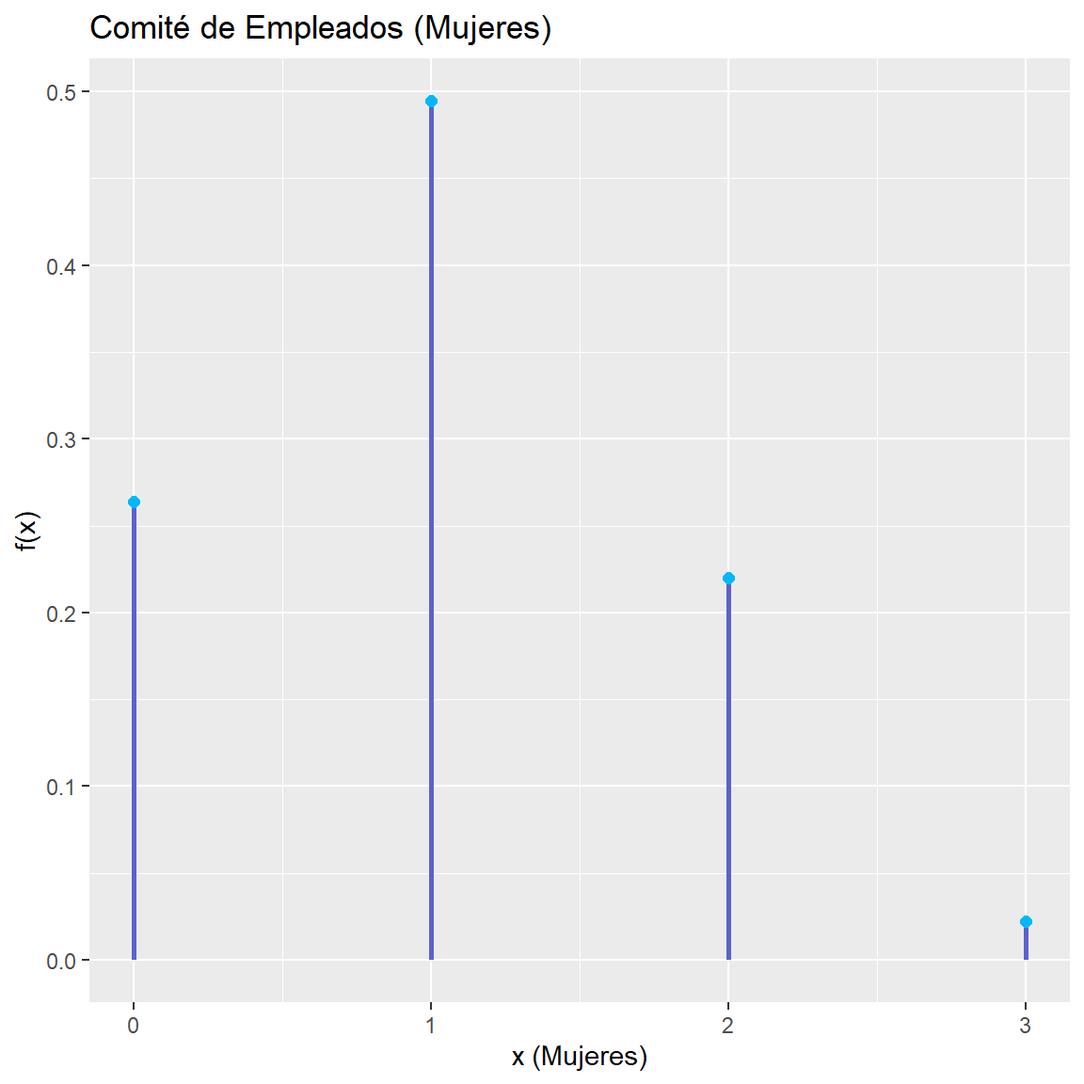
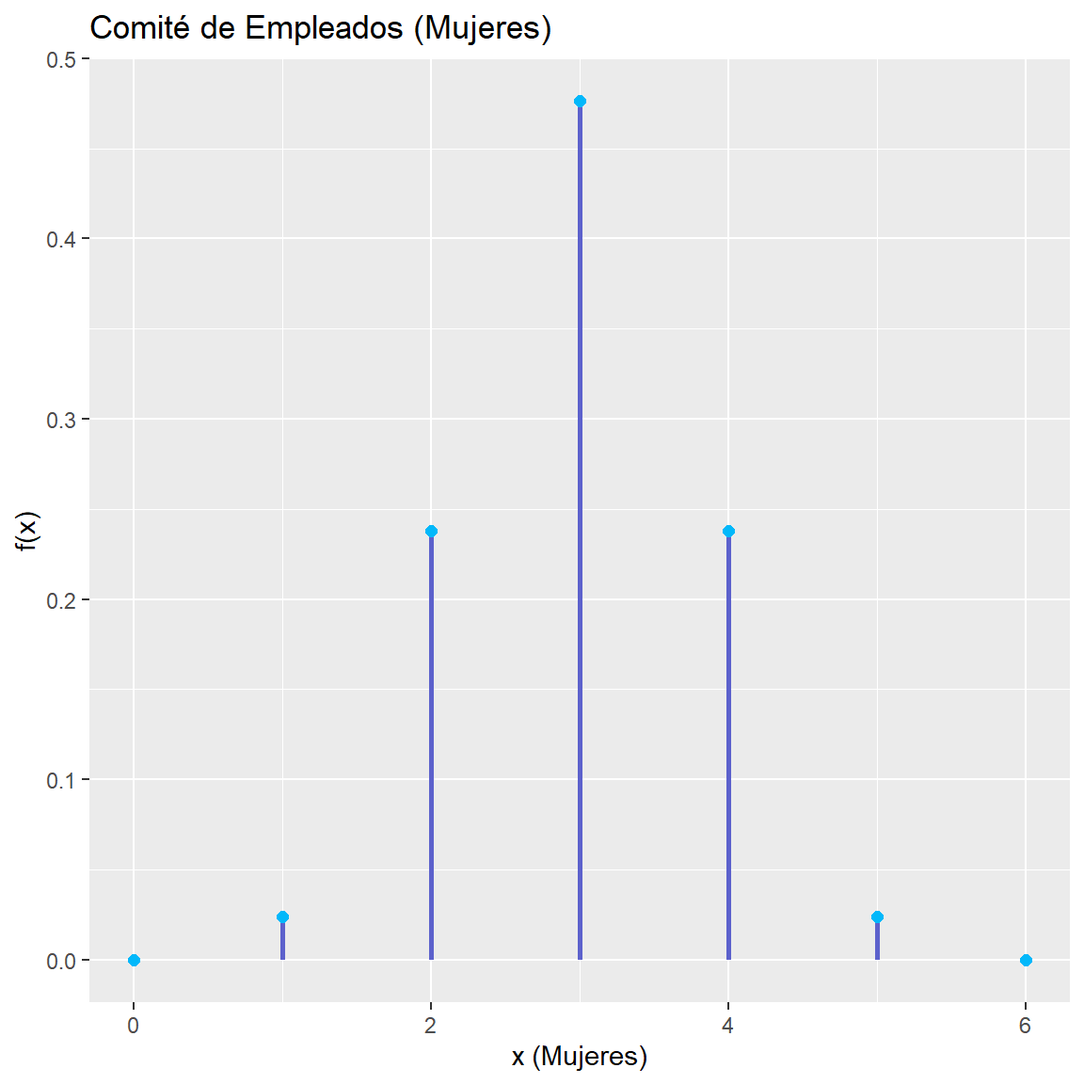
cambios7

diff --git a/index.html b/index.html
@@ -160,7 +160,7 @@ window.Quarto = {
       <div>
       <div class="quarto-title-meta-heading">Fecha de publicación</div>
       <div class="quarto-title-meta-contents">
-        <p class="date">11 de mayo de 2026</p>
+        <p class="date">13 de mayo de 2026</p>
       </div>
     </div>
     
@@ -3308,16 +3308,19 @@ window.Quarto = {
 <div class="cell" data-layout-align="center">
 <details class="code-fold">
 <summary>Ver código</summary>
-<div class="sourceCode cell-code" id="cb132"><pre class="sourceCode r code-with-copy"><code class="sourceCode r"><span id="cb132-1"><a href="#cb132-1" aria-hidden="true" tabindex="-1"></a>N <span class="ot">&lt;-</span> <span class="dv">15</span></span>
-<span id="cb132-2"><a href="#cb132-2" aria-hidden="true" tabindex="-1"></a>K <span class="ot">&lt;-</span> <span class="dv">5</span> <span class="co"># Mujeres (éxito buscado)</span></span>
-<span id="cb132-3"><a href="#cb132-3" aria-hidden="true" tabindex="-1"></a>n_muestra <span class="ot">&lt;-</span> <span class="dv">3</span></span>
-<span id="cb132-4"><a href="#cb132-4" aria-hidden="true" tabindex="-1"></a>x <span class="ot">&lt;-</span> <span class="dv">0</span><span class="sc">:</span><span class="dv">3</span></span>
-<span id="cb132-5"><a href="#cb132-5" aria-hidden="true" tabindex="-1"></a>fx <span class="ot">&lt;-</span> <span class="fu">round</span>(<span class="fu">dhyper</span>(x, <span class="at">m =</span> K, <span class="at">n =</span> N <span class="sc">-</span> K, <span class="at">k =</span> n_muestra), <span class="dv">4</span>)</span>
-<span id="cb132-6"><a href="#cb132-6" aria-hidden="true" tabindex="-1"></a>Fx <span class="ot">&lt;-</span> <span class="fu">round</span>(<span class="fu">cumsum</span>(fx), <span class="dv">4</span>)</span>
-<span id="cb132-7"><a href="#cb132-7" aria-hidden="true" tabindex="-1"></a>df_comite <span class="ot">=</span> <span class="fu">data.frame</span>(x, fx, Fx)</span>
-<span id="cb132-8"><a href="#cb132-8" aria-hidden="true" tabindex="-1"></a><span class="fu">kable</span>(df_comite, <span class="at">align =</span> <span class="st">"c"</span>) <span class="sc">%&gt;%</span> </span>
-<span id="cb132-9"><a href="#cb132-9" aria-hidden="true" tabindex="-1"></a>  <span class="fu">kable_styling</span>(<span class="st">"striped"</span>, <span class="at">full_width =</span> F) <span class="sc">%&gt;%</span></span>
-<span id="cb132-10"><a href="#cb132-10" aria-hidden="true" tabindex="-1"></a>  <span class="fu">row_spec</span>(<span class="dv">0</span><span class="sc">:</span><span class="dv">4</span>, <span class="at">bold =</span> T, <span class="at">color =</span> <span class="st">"#f7f2f2"</span>, <span class="at">background =</span> <span class="st">"#5c61cc"</span>)</span></code><button title="Copiar al portapapeles" class="code-copy-button"><i class="bi"></i></button></pre></div>
+<div class="sourceCode cell-code" id="cb132"><pre class="sourceCode r code-with-copy"><code class="sourceCode r"><span id="cb132-1"><a href="#cb132-1" aria-hidden="true" tabindex="-1"></a>N <span class="ot">&lt;-</span> <span class="dv">10</span></span>
+<span id="cb132-2"><a href="#cb132-2" aria-hidden="true" tabindex="-1"></a>K <span class="ot">&lt;-</span> <span class="dv">6</span></span>
+<span id="cb132-3"><a href="#cb132-3" aria-hidden="true" tabindex="-1"></a>n <span class="ot">&lt;-</span> <span class="dv">5</span></span>
+<span id="cb132-4"><a href="#cb132-4" aria-hidden="true" tabindex="-1"></a>x <span class="ot">&lt;-</span> <span class="dv">0</span><span class="sc">:</span>K</span>
+<span id="cb132-5"><a href="#cb132-5" aria-hidden="true" tabindex="-1"></a><span class="co"># dhyper(x, m, n_rest, k) -&gt; m=éxitos (buen estado), n_rest=fracasos, k=muestra</span></span>
+<span id="cb132-6"><a href="#cb132-6" aria-hidden="true" tabindex="-1"></a>fx <span class="ot">&lt;-</span> <span class="fu">round</span>(<span class="fu">dhyper</span>(x, <span class="at">m =</span> K, <span class="at">n =</span> N <span class="sc">-</span> K, <span class="at">k =</span> n), <span class="dv">4</span>)</span>
+<span id="cb132-7"><a href="#cb132-7" aria-hidden="true" tabindex="-1"></a>Fx <span class="ot">&lt;-</span> <span class="fu">round</span>(<span class="fu">cumsum</span>(fx), <span class="dv">4</span>)</span>
+<span id="cb132-8"><a href="#cb132-8" aria-hidden="true" tabindex="-1"></a>df <span class="ot">=</span> <span class="fu">data.frame</span>(x, fx, Fx)</span>
+<span id="cb132-9"><a href="#cb132-9" aria-hidden="true" tabindex="-1"></a>Form.Basic <span class="ot">&lt;-</span> <span class="fu">c</span>(<span class="st">"striped"</span>, <span class="st">"bordered"</span>, <span class="st">"hover"</span>, <span class="st">"condensed"</span>, <span class="st">"responsive"</span>)</span>
+<span id="cb132-10"><a href="#cb132-10" aria-hidden="true" tabindex="-1"></a><span class="fu">kable</span>(df, <span class="at">align =</span> <span class="st">"c"</span>) <span class="sc">%&gt;%</span> </span>
+<span id="cb132-11"><a href="#cb132-11" aria-hidden="true" tabindex="-1"></a>  <span class="fu">kable_styling</span>(<span class="st">"striped"</span>, <span class="at">full_width =</span> F) <span class="sc">%&gt;%</span></span>
+<span id="cb132-12"><a href="#cb132-12" aria-hidden="true" tabindex="-1"></a>  <span class="fu">column_spec</span>(<span class="dv">1</span>, <span class="at">bold =</span> T) <span class="sc">%&gt;%</span></span>
+<span id="cb132-13"><a href="#cb132-13" aria-hidden="true" tabindex="-1"></a>  <span class="fu">row_spec</span>(<span class="dv">0</span><span class="sc">:</span><span class="dv">7</span>, <span class="at">bold =</span> T, <span class="at">color =</span> <span class="st">"#f7f2f2"</span>, <span class="at">background =</span> <span class="st">"#5c61cc"</span>)</span></code><button title="Copiar al portapapeles" class="code-copy-button"><i class="bi"></i></button></pre></div>
 </details>
 <div class="cell-output-display">
 <table class="table table-striped caption-top table-sm small" data-quarto-postprocess="true">
@@ -3330,23 +3333,38 @@ window.Quarto = {
 </thead>
 <tbody>
 <tr class="odd">
-<td style="text-align: center; font-weight: bold; color: rgba(247, 242, 242, 255) !important; background-color: rgba(92, 97, 204, 255) !important;">0</td>
-<td style="text-align: center; font-weight: bold; color: rgba(247, 242, 242, 255) !important; background-color: rgba(92, 97, 204, 255) !important;">0.2637</td>
-<td style="text-align: center; font-weight: bold; color: rgba(247, 242, 242, 255) !important; background-color: rgba(92, 97, 204, 255) !important;">0.2637</td>
+<td style="text-align: center; font-weight: bold; font-weight: bold; color: rgba(247, 242, 242, 255) !important; background-color: rgba(92, 97, 204, 255) !important;">0</td>
+<td style="text-align: center; font-weight: bold; color: rgba(247, 242, 242, 255) !important; background-color: rgba(92, 97, 204, 255) !important;">0.0000</td>
+<td style="text-align: center; font-weight: bold; color: rgba(247, 242, 242, 255) !important; background-color: rgba(92, 97, 204, 255) !important;">0.0000</td>
 </tr>
 <tr class="even">
-<td style="text-align: center; font-weight: bold; color: rgba(247, 242, 242, 255) !important; background-color: rgba(92, 97, 204, 255) !important;">1</td>
-<td style="text-align: center; font-weight: bold; color: rgba(247, 242, 242, 255) !important; background-color: rgba(92, 97, 204, 255) !important;">0.4945</td>
-<td style="text-align: center; font-weight: bold; color: rgba(247, 242, 242, 255) !important; background-color: rgba(92, 97, 204, 255) !important;">0.7582</td>
+<td style="text-align: center; font-weight: bold; font-weight: bold; color: rgba(247, 242, 242, 255) !important; background-color: rgba(92, 97, 204, 255) !important;">1</td>
+<td style="text-align: center; font-weight: bold; color: rgba(247, 242, 242, 255) !important; background-color: rgba(92, 97, 204, 255) !important;">0.0238</td>
+<td style="text-align: center; font-weight: bold; color: rgba(247, 242, 242, 255) !important; background-color: rgba(92, 97, 204, 255) !important;">0.0238</td>
 </tr>
 <tr class="odd">
-<td style="text-align: center; font-weight: bold; color: rgba(247, 242, 242, 255) !important; background-color: rgba(92, 97, 204, 255) !important;">2</td>
-<td style="text-align: center; font-weight: bold; color: rgba(247, 242, 242, 255) !important; background-color: rgba(92, 97, 204, 255) !important;">0.2198</td>
-<td style="text-align: center; font-weight: bold; color: rgba(247, 242, 242, 255) !important; background-color: rgba(92, 97, 204, 255) !important;">0.9780</td>
+<td style="text-align: center; font-weight: bold; font-weight: bold; color: rgba(247, 242, 242, 255) !important; background-color: rgba(92, 97, 204, 255) !important;">2</td>
+<td style="text-align: center; font-weight: bold; color: rgba(247, 242, 242, 255) !important; background-color: rgba(92, 97, 204, 255) !important;">0.2381</td>
+<td style="text-align: center; font-weight: bold; color: rgba(247, 242, 242, 255) !important; background-color: rgba(92, 97, 204, 255) !important;">0.2619</td>
 </tr>
 <tr class="even">
-<td style="text-align: center; font-weight: bold; color: rgba(247, 242, 242, 255) !important; background-color: rgba(92, 97, 204, 255) !important;">3</td>
-<td style="text-align: center; font-weight: bold; color: rgba(247, 242, 242, 255) !important; background-color: rgba(92, 97, 204, 255) !important;">0.0220</td>
+<td style="text-align: center; font-weight: bold; font-weight: bold; color: rgba(247, 242, 242, 255) !important; background-color: rgba(92, 97, 204, 255) !important;">3</td>
+<td style="text-align: center; font-weight: bold; color: rgba(247, 242, 242, 255) !important; background-color: rgba(92, 97, 204, 255) !important;">0.4762</td>
+<td style="text-align: center; font-weight: bold; color: rgba(247, 242, 242, 255) !important; background-color: rgba(92, 97, 204, 255) !important;">0.7381</td>
+</tr>
+<tr class="odd">
+<td style="text-align: center; font-weight: bold; font-weight: bold; color: rgba(247, 242, 242, 255) !important; background-color: rgba(92, 97, 204, 255) !important;">4</td>
+<td style="text-align: center; font-weight: bold; color: rgba(247, 242, 242, 255) !important; background-color: rgba(92, 97, 204, 255) !important;">0.2381</td>
+<td style="text-align: center; font-weight: bold; color: rgba(247, 242, 242, 255) !important; background-color: rgba(92, 97, 204, 255) !important;">0.9762</td>
+</tr>
+<tr class="even">
+<td style="text-align: center; font-weight: bold; font-weight: bold; color: rgba(247, 242, 242, 255) !important; background-color: rgba(92, 97, 204, 255) !important;">5</td>
+<td style="text-align: center; font-weight: bold; color: rgba(247, 242, 242, 255) !important; background-color: rgba(92, 97, 204, 255) !important;">0.0238</td>
+<td style="text-align: center; font-weight: bold; color: rgba(247, 242, 242, 255) !important; background-color: rgba(92, 97, 204, 255) !important;">1.0000</td>
+</tr>
+<tr class="odd">
+<td style="text-align: center; font-weight: bold; font-weight: bold; color: rgba(247, 242, 242, 255) !important; background-color: rgba(92, 97, 204, 255) !important;">6</td>
+<td style="text-align: center; font-weight: bold; color: rgba(247, 242, 242, 255) !important; background-color: rgba(92, 97, 204, 255) !important;">0.0000</td>
 <td style="text-align: center; font-weight: bold; color: rgba(247, 242, 242, 255) !important; background-color: rgba(92, 97, 204, 255) !important;">1.0000</td>
 </tr>
 </tbody>
@@ -3417,14 +3435,24 @@ window.Quarto = {
 <div class="cell" data-layout-align="center">
 <details class="code-fold">
 <summary>Ver código</summary>
-<div class="sourceCode cell-code" id="cb137"><pre class="sourceCode r code-with-copy"><code class="sourceCode r"><span id="cb137-1"><a href="#cb137-1" aria-hidden="true" tabindex="-1"></a><span class="fu">ggplot</span>(df_comite, <span class="fu">aes</span>(<span class="at">x =</span> x, <span class="at">y =</span> fx, <span class="at">fill=</span><span class="fu">factor</span>(<span class="fu">ifelse</span>(x<span class="sc">==</span><span class="dv">2</span>,<span class="st">"Valor"</span>,<span class="st">"Resto"</span>)))) <span class="sc">+</span></span>
-<span id="cb137-2"><a href="#cb137-2" aria-hidden="true" tabindex="-1"></a><span class="fu">geom_bar</span>(<span class="at">stat =</span> <span class="st">"identity"</span>, <span class="at">width =</span> <span class="fl">0.4</span>) <span class="sc">+</span> </span>
-<span id="cb137-3"><a href="#cb137-3" aria-hidden="true" tabindex="-1"></a><span class="fu">scale_fill_manual</span>(<span class="at">name =</span> <span class="st">""</span>, <span class="at">values=</span><span class="fu">c</span>(<span class="st">"#fab27a"</span>,<span class="st">"#5c61cc"</span>)) <span class="sc">+</span> <span class="fu">theme_bw</span>()</span></code><button title="Copiar al portapapeles" class="code-copy-button"><i class="bi"></i></button></pre></div>
+<div class="sourceCode cell-code" id="cb137"><pre class="sourceCode r code-with-copy"><code class="sourceCode r"><span id="cb137-1"><a href="#cb137-1" aria-hidden="true" tabindex="-1"></a>x <span class="ot">&lt;-</span> <span class="dv">0</span><span class="sc">:</span><span class="dv">3</span></span>
+<span id="cb137-2"><a href="#cb137-2" aria-hidden="true" tabindex="-1"></a>fx <span class="ot">&lt;-</span> <span class="fu">dhyper</span>(x, <span class="at">m =</span> <span class="dv">5</span>, <span class="at">n =</span> <span class="dv">10</span>, <span class="at">k =</span> <span class="dv">3</span>)</span>
+<span id="cb137-3"><a href="#cb137-3" aria-hidden="true" tabindex="-1"></a></span>
+<span id="cb137-4"><a href="#cb137-4" aria-hidden="true" tabindex="-1"></a>df_comite <span class="ot">&lt;-</span> <span class="fu">data.frame</span>(x, fx)</span></code><button title="Copiar al portapapeles" class="code-copy-button"><i class="bi"></i></button></pre></div>
+</details>
+</div>
+<div class="cell" data-layout-align="center">
+<details class="code-fold">
+<summary>Ver código</summary>
+<div class="sourceCode cell-code" id="cb138"><pre class="sourceCode r code-with-copy"><code class="sourceCode r"><span id="cb138-1"><a href="#cb138-1" aria-hidden="true" tabindex="-1"></a><span class="fu">ggplot</span>(df_comite, <span class="fu">aes</span>(<span class="at">x =</span> x, <span class="at">y =</span> fx, <span class="at">fill =</span> <span class="fu">factor</span>(<span class="fu">ifelse</span>(x <span class="sc">==</span> <span class="dv">2</span>, <span class="st">"Valor"</span>, <span class="st">"Resto"</span>)))) <span class="sc">+</span></span>
+<span id="cb138-2"><a href="#cb138-2" aria-hidden="true" tabindex="-1"></a><span class="fu">geom_bar</span>(<span class="at">stat =</span> <span class="st">"identity"</span>, <span class="at">width =</span> <span class="fl">0.4</span>) <span class="sc">+</span></span>
+<span id="cb138-3"><a href="#cb138-3" aria-hidden="true" tabindex="-1"></a><span class="fu">scale_fill_manual</span>(<span class="at">name =</span> <span class="st">""</span>, <span class="at">values =</span> <span class="fu">c</span>(<span class="st">"#fab27a"</span>, <span class="st">"#5c61cc"</span>)) <span class="sc">+</span></span>
+<span id="cb138-4"><a href="#cb138-4" aria-hidden="true" tabindex="-1"></a><span class="fu">theme_bw</span>()</span></code><button title="Copiar al portapapeles" class="code-copy-button"><i class="bi"></i></button></pre></div>
 </details>
 <div class="cell-output-display">
 <div class="quarto-figure quarto-figure-center">
 <figure class="figure">
-<p><img src="index_files/figure-html/unnamed-chunk-87-1.png" class="img-fluid quarto-figure quarto-figure-center figure-img" style="width:70.0%"></p>
+<p><img src="index_files/figure-html/unnamed-chunk-88-1.png" class="img-fluid quarto-figure quarto-figure-center figure-img" style="width:70.0%"></p>
 </figure>
 </div>
 </div>
@@ -3452,16 +3480,16 @@ window.Quarto = {
 <div class="cell" data-layout-align="center">
 <details class="code-fold">
 <summary>Ver código</summary>
-<div class="sourceCode cell-code" id="cb138"><pre class="sourceCode r code-with-copy"><code class="sourceCode r"><span id="cb138-1"><a href="#cb138-1" aria-hidden="true" tabindex="-1"></a>N <span class="ot">&lt;-</span> <span class="dv">12</span></span>
-<span id="cb138-2"><a href="#cb138-2" aria-hidden="true" tabindex="-1"></a>K <span class="ot">&lt;-</span> <span class="dv">3</span></span>
-<span id="cb138-3"><a href="#cb138-3" aria-hidden="true" tabindex="-1"></a>n_muestra <span class="ot">&lt;-</span> <span class="dv">5</span></span>
-<span id="cb138-4"><a href="#cb138-4" aria-hidden="true" tabindex="-1"></a>x <span class="ot">&lt;-</span> <span class="dv">0</span><span class="sc">:</span>K</span>
-<span id="cb138-5"><a href="#cb138-5" aria-hidden="true" tabindex="-1"></a>fx <span class="ot">&lt;-</span> <span class="fu">round</span>(<span class="fu">dhyper</span>(x, <span class="at">m =</span> K, <span class="at">n =</span> N <span class="sc">-</span> K, <span class="at">k =</span> n_muestra), <span class="dv">4</span>)</span>
-<span id="cb138-6"><a href="#cb138-6" aria-hidden="true" tabindex="-1"></a>Fx <span class="ot">&lt;-</span> <span class="fu">round</span>(<span class="fu">cumsum</span>(fx), <span class="dv">4</span>)</span>
-<span id="cb138-7"><a href="#cb138-7" aria-hidden="true" tabindex="-1"></a>df_frascos <span class="ot">=</span> <span class="fu">data.frame</span>(x, fx, Fx)</span>
-<span id="cb138-8"><a href="#cb138-8" aria-hidden="true" tabindex="-1"></a><span class="fu">kable</span>(df_frascos, <span class="at">align =</span> <span class="st">"c"</span>) <span class="sc">%&gt;%</span> </span>
-<span id="cb138-9"><a href="#cb138-9" aria-hidden="true" tabindex="-1"></a>  <span class="fu">kable_styling</span>(<span class="st">"striped"</span>, <span class="at">full_width =</span> F) <span class="sc">%&gt;%</span></span>
-<span id="cb138-10"><a href="#cb138-10" aria-hidden="true" tabindex="-1"></a>  <span class="fu">row_spec</span>(<span class="dv">0</span><span class="sc">:</span><span class="dv">4</span>, <span class="at">bold =</span> T, <span class="at">color =</span> <span class="st">"#f7f2f2"</span>, <span class="at">background =</span> <span class="st">"#5c61cc"</span>)</span></code><button title="Copiar al portapapeles" class="code-copy-button"><i class="bi"></i></button></pre></div>
+<div class="sourceCode cell-code" id="cb139"><pre class="sourceCode r code-with-copy"><code class="sourceCode r"><span id="cb139-1"><a href="#cb139-1" aria-hidden="true" tabindex="-1"></a>lambda <span class="ot">&lt;-</span> <span class="dv">3</span></span>
+<span id="cb139-2"><a href="#cb139-2" aria-hidden="true" tabindex="-1"></a>x <span class="ot">&lt;-</span> <span class="dv">0</span><span class="sc">:</span><span class="dv">10</span> <span class="co"># Tomamos hasta 10 para visualizar la tendencia</span></span>
+<span id="cb139-3"><a href="#cb139-3" aria-hidden="true" tabindex="-1"></a>fx <span class="ot">&lt;-</span> <span class="fu">round</span>(<span class="fu">dpois</span>(x, lambda), <span class="dv">4</span>)</span>
+<span id="cb139-4"><a href="#cb139-4" aria-hidden="true" tabindex="-1"></a>Fx <span class="ot">&lt;-</span> <span class="fu">round</span>(<span class="fu">ppois</span>(x, lambda), <span class="dv">4</span>)</span>
+<span id="cb139-5"><a href="#cb139-5" aria-hidden="true" tabindex="-1"></a>df <span class="ot">=</span> <span class="fu">data.frame</span>(x, fx, Fx)</span>
+<span id="cb139-6"><a href="#cb139-6" aria-hidden="true" tabindex="-1"></a>Form.Basic <span class="ot">&lt;-</span> <span class="fu">c</span>(<span class="st">"striped"</span>, <span class="st">"bordered"</span>, <span class="st">"hover"</span>, <span class="st">"condensed"</span>, <span class="st">"responsive"</span>)</span>
+<span id="cb139-7"><a href="#cb139-7" aria-hidden="true" tabindex="-1"></a><span class="fu">kable</span>(df, <span class="at">align =</span> <span class="st">"c"</span>) <span class="sc">%&gt;%</span> </span>
+<span id="cb139-8"><a href="#cb139-8" aria-hidden="true" tabindex="-1"></a>  <span class="fu">kable_styling</span>(<span class="st">"striped"</span>, <span class="at">full_width =</span> F) <span class="sc">%&gt;%</span></span>
+<span id="cb139-9"><a href="#cb139-9" aria-hidden="true" tabindex="-1"></a>  <span class="fu">column_spec</span>(<span class="dv">1</span>, <span class="at">bold =</span> T) <span class="sc">%&gt;%</span></span>
+<span id="cb139-10"><a href="#cb139-10" aria-hidden="true" tabindex="-1"></a>  <span class="fu">row_spec</span>(<span class="dv">0</span><span class="sc">:</span><span class="dv">11</span>, <span class="at">bold =</span> T, <span class="at">color =</span> <span class="st">"#f7f2f2"</span>, <span class="at">background =</span> <span class="st">"#5c61cc"</span>)</span></code><button title="Copiar al portapapeles" class="code-copy-button"><i class="bi"></i></button></pre></div>
 </details>
 <div class="cell-output-display">
 <table class="table table-striped caption-top table-sm small" data-quarto-postprocess="true">
@@ -3474,24 +3502,59 @@ window.Quarto = {
 </thead>
 <tbody>
 <tr class="odd">
-<td style="text-align: center; font-weight: bold; color: rgba(247, 242, 242, 255) !important; background-color: rgba(92, 97, 204, 255) !important;">0</td>
-<td style="text-align: center; font-weight: bold; color: rgba(247, 242, 242, 255) !important; background-color: rgba(92, 97, 204, 255) !important;">0.1591</td>
-<td style="text-align: center; font-weight: bold; color: rgba(247, 242, 242, 255) !important; background-color: rgba(92, 97, 204, 255) !important;">0.1591</td>
+<td style="text-align: center; font-weight: bold; font-weight: bold; color: rgba(247, 242, 242, 255) !important; background-color: rgba(92, 97, 204, 255) !important;">0</td>
+<td style="text-align: center; font-weight: bold; color: rgba(247, 242, 242, 255) !important; background-color: rgba(92, 97, 204, 255) !important;">0.0498</td>
+<td style="text-align: center; font-weight: bold; color: rgba(247, 242, 242, 255) !important; background-color: rgba(92, 97, 204, 255) !important;">0.0498</td>
 </tr>
 <tr class="even">
-<td style="text-align: center; font-weight: bold; color: rgba(247, 242, 242, 255) !important; background-color: rgba(92, 97, 204, 255) !important;">1</td>
-<td style="text-align: center; font-weight: bold; color: rgba(247, 242, 242, 255) !important; background-color: rgba(92, 97, 204, 255) !important;">0.4773</td>
-<td style="text-align: center; font-weight: bold; color: rgba(247, 242, 242, 255) !important; background-color: rgba(92, 97, 204, 255) !important;">0.6364</td>
+<td style="text-align: center; font-weight: bold; font-weight: bold; color: rgba(247, 242, 242, 255) !important; background-color: rgba(92, 97, 204, 255) !important;">1</td>
+<td style="text-align: center; font-weight: bold; color: rgba(247, 242, 242, 255) !important; background-color: rgba(92, 97, 204, 255) !important;">0.1494</td>
+<td style="text-align: center; font-weight: bold; color: rgba(247, 242, 242, 255) !important; background-color: rgba(92, 97, 204, 255) !important;">0.1991</td>
 </tr>
 <tr class="odd">
-<td style="text-align: center; font-weight: bold; color: rgba(247, 242, 242, 255) !important; background-color: rgba(92, 97, 204, 255) !important;">2</td>
-<td style="text-align: center; font-weight: bold; color: rgba(247, 242, 242, 255) !important; background-color: rgba(92, 97, 204, 255) !important;">0.3182</td>
-<td style="text-align: center; font-weight: bold; color: rgba(247, 242, 242, 255) !important; background-color: rgba(92, 97, 204, 255) !important;">0.9546</td>
+<td style="text-align: center; font-weight: bold; font-weight: bold; color: rgba(247, 242, 242, 255) !important; background-color: rgba(92, 97, 204, 255) !important;">2</td>
+<td style="text-align: center; font-weight: bold; color: rgba(247, 242, 242, 255) !important; background-color: rgba(92, 97, 204, 255) !important;">0.2240</td>
+<td style="text-align: center; font-weight: bold; color: rgba(247, 242, 242, 255) !important; background-color: rgba(92, 97, 204, 255) !important;">0.4232</td>
 </tr>
 <tr class="even">
-<td style="text-align: center; font-weight: bold; color: rgba(247, 242, 242, 255) !important; background-color: rgba(92, 97, 204, 255) !important;">3</td>
-<td style="text-align: center; font-weight: bold; color: rgba(247, 242, 242, 255) !important; background-color: rgba(92, 97, 204, 255) !important;">0.0455</td>
-<td style="text-align: center; font-weight: bold; color: rgba(247, 242, 242, 255) !important; background-color: rgba(92, 97, 204, 255) !important;">1.0001</td>
+<td style="text-align: center; font-weight: bold; font-weight: bold; color: rgba(247, 242, 242, 255) !important; background-color: rgba(92, 97, 204, 255) !important;">3</td>
+<td style="text-align: center; font-weight: bold; color: rgba(247, 242, 242, 255) !important; background-color: rgba(92, 97, 204, 255) !important;">0.2240</td>
+<td style="text-align: center; font-weight: bold; color: rgba(247, 242, 242, 255) !important; background-color: rgba(92, 97, 204, 255) !important;">0.6472</td>
+</tr>
+<tr class="odd">
+<td style="text-align: center; font-weight: bold; font-weight: bold; color: rgba(247, 242, 242, 255) !important; background-color: rgba(92, 97, 204, 255) !important;">4</td>
+<td style="text-align: center; font-weight: bold; color: rgba(247, 242, 242, 255) !important; background-color: rgba(92, 97, 204, 255) !important;">0.1680</td>
+<td style="text-align: center; font-weight: bold; color: rgba(247, 242, 242, 255) !important; background-color: rgba(92, 97, 204, 255) !important;">0.8153</td>
+</tr>
+<tr class="even">
+<td style="text-align: center; font-weight: bold; font-weight: bold; color: rgba(247, 242, 242, 255) !important; background-color: rgba(92, 97, 204, 255) !important;">5</td>
+<td style="text-align: center; font-weight: bold; color: rgba(247, 242, 242, 255) !important; background-color: rgba(92, 97, 204, 255) !important;">0.1008</td>
+<td style="text-align: center; font-weight: bold; color: rgba(247, 242, 242, 255) !important; background-color: rgba(92, 97, 204, 255) !important;">0.9161</td>
+</tr>
+<tr class="odd">
+<td style="text-align: center; font-weight: bold; font-weight: bold; color: rgba(247, 242, 242, 255) !important; background-color: rgba(92, 97, 204, 255) !important;">6</td>
+<td style="text-align: center; font-weight: bold; color: rgba(247, 242, 242, 255) !important; background-color: rgba(92, 97, 204, 255) !important;">0.0504</td>
+<td style="text-align: center; font-weight: bold; color: rgba(247, 242, 242, 255) !important; background-color: rgba(92, 97, 204, 255) !important;">0.9665</td>
+</tr>
+<tr class="even">
+<td style="text-align: center; font-weight: bold; font-weight: bold; color: rgba(247, 242, 242, 255) !important; background-color: rgba(92, 97, 204, 255) !important;">7</td>
+<td style="text-align: center; font-weight: bold; color: rgba(247, 242, 242, 255) !important; background-color: rgba(92, 97, 204, 255) !important;">0.0216</td>
+<td style="text-align: center; font-weight: bold; color: rgba(247, 242, 242, 255) !important; background-color: rgba(92, 97, 204, 255) !important;">0.9881</td>
+</tr>
+<tr class="odd">
+<td style="text-align: center; font-weight: bold; font-weight: bold; color: rgba(247, 242, 242, 255) !important; background-color: rgba(92, 97, 204, 255) !important;">8</td>
+<td style="text-align: center; font-weight: bold; color: rgba(247, 242, 242, 255) !important; background-color: rgba(92, 97, 204, 255) !important;">0.0081</td>
+<td style="text-align: center; font-weight: bold; color: rgba(247, 242, 242, 255) !important; background-color: rgba(92, 97, 204, 255) !important;">0.9962</td>
+</tr>
+<tr class="even">
+<td style="text-align: center; font-weight: bold; font-weight: bold; color: rgba(247, 242, 242, 255) !important; background-color: rgba(92, 97, 204, 255) !important;">9</td>
+<td style="text-align: center; font-weight: bold; color: rgba(247, 242, 242, 255) !important; background-color: rgba(92, 97, 204, 255) !important;">0.0027</td>
+<td style="text-align: center; font-weight: bold; color: rgba(247, 242, 242, 255) !important; background-color: rgba(92, 97, 204, 255) !important;">0.9989</td>
+</tr>
+<tr class="odd">
+<td style="text-align: center; font-weight: bold; font-weight: bold; color: rgba(247, 242, 242, 255) !important; background-color: rgba(92, 97, 204, 255) !important;">10</td>
+<td style="text-align: center; font-weight: bold; color: rgba(247, 242, 242, 255) !important; background-color: rgba(92, 97, 204, 255) !important;">0.0008</td>
+<td style="text-align: center; font-weight: bold; color: rgba(247, 242, 242, 255) !important; background-color: rgba(92, 97, 204, 255) !important;">0.9997</td>
 </tr>
 </tbody>
 </table>
@@ -3502,19 +3565,19 @@ window.Quarto = {
 <div class="cell" data-layout-align="center">
 <details class="code-fold">
 <summary>Ver código</summary>
-<div class="sourceCode cell-code" id="cb139"><pre class="sourceCode r code-with-copy"><code class="sourceCode r"><span id="cb139-1"><a href="#cb139-1" aria-hidden="true" tabindex="-1"></a>df_1 <span class="ot">&lt;-</span> <span class="fu">data.frame</span>(<span class="at">x =</span> x, <span class="at">fx =</span> fx, <span class="at">xend =</span> x, <span class="at">fxend =</span> <span class="dv">0</span>)</span>
-<span id="cb139-2"><a href="#cb139-2" aria-hidden="true" tabindex="-1"></a></span>
-<span id="cb139-3"><a href="#cb139-3" aria-hidden="true" tabindex="-1"></a><span class="fu">ggplot</span>(df_1, <span class="fu">aes</span>(<span class="at">x =</span> x, <span class="at">y =</span> fx)) <span class="sc">+</span></span>
-<span id="cb139-4"><a href="#cb139-4" aria-hidden="true" tabindex="-1"></a>  <span class="fu">geom_segment</span>(<span class="fu">aes</span>(<span class="at">xend =</span> xend, <span class="at">yend =</span> fxend), <span class="at">color =</span> <span class="st">"#5c61cc"</span>, <span class="at">size =</span> <span class="dv">1</span>) <span class="sc">+</span></span>
-<span id="cb139-5"><a href="#cb139-5" aria-hidden="true" tabindex="-1"></a>  <span class="fu">geom_point</span>(<span class="at">color =</span> <span class="st">"#02b8fa"</span>, <span class="at">size =</span> <span class="dv">2</span>) <span class="sc">+</span></span>
-<span id="cb139-6"><a href="#cb139-6" aria-hidden="true" tabindex="-1"></a>  <span class="fu">labs</span>(<span class="at">title =</span> <span class="st">"Función de probabilidad hipergeométrica"</span>,</span>
-<span id="cb139-7"><a href="#cb139-7" aria-hidden="true" tabindex="-1"></a>       <span class="at">x =</span> <span class="st">"x (Frascos defectuosos detectados)"</span>,</span>
-<span id="cb139-8"><a href="#cb139-8" aria-hidden="true" tabindex="-1"></a>       <span class="at">y =</span> <span class="st">"f(x)"</span>)</span></code><button title="Copiar al portapapeles" class="code-copy-button"><i class="bi"></i></button></pre></div>
+<div class="sourceCode cell-code" id="cb140"><pre class="sourceCode r code-with-copy"><code class="sourceCode r"><span id="cb140-1"><a href="#cb140-1" aria-hidden="true" tabindex="-1"></a>df_1 <span class="ot">&lt;-</span> <span class="fu">data.frame</span>(<span class="at">x =</span> x, <span class="at">fx =</span> fx, <span class="at">xend =</span> x, <span class="at">fxend =</span> <span class="dv">0</span>)</span>
+<span id="cb140-2"><a href="#cb140-2" aria-hidden="true" tabindex="-1"></a></span>
+<span id="cb140-3"><a href="#cb140-3" aria-hidden="true" tabindex="-1"></a><span class="fu">ggplot</span>(df_1, <span class="fu">aes</span>(<span class="at">x =</span> x, <span class="at">y =</span> fx)) <span class="sc">+</span></span>
+<span id="cb140-4"><a href="#cb140-4" aria-hidden="true" tabindex="-1"></a>  <span class="fu">geom_segment</span>(<span class="fu">aes</span>(<span class="at">xend =</span> xend, <span class="at">yend =</span> fxend), <span class="at">color =</span> <span class="st">"#5c61cc"</span>, <span class="at">size =</span> <span class="dv">1</span>) <span class="sc">+</span></span>
+<span id="cb140-5"><a href="#cb140-5" aria-hidden="true" tabindex="-1"></a>  <span class="fu">geom_point</span>(<span class="at">color =</span> <span class="st">"#02b8fa"</span>, <span class="at">size =</span> <span class="dv">2</span>) <span class="sc">+</span></span>
+<span id="cb140-6"><a href="#cb140-6" aria-hidden="true" tabindex="-1"></a>  <span class="fu">labs</span>(<span class="at">title =</span> <span class="st">"Función de probabilidad hipergeométrica"</span>,</span>
+<span id="cb140-7"><a href="#cb140-7" aria-hidden="true" tabindex="-1"></a>       <span class="at">x =</span> <span class="st">"x (Frascos defectuosos detectados)"</span>,</span>
+<span id="cb140-8"><a href="#cb140-8" aria-hidden="true" tabindex="-1"></a>       <span class="at">y =</span> <span class="st">"f(x)"</span>)</span></code><button title="Copiar al portapapeles" class="code-copy-button"><i class="bi"></i></button></pre></div>
 </details>
 <div class="cell-output-display">
 <div class="quarto-figure quarto-figure-center">
 <figure class="figure">
-<p><img src="index_files/figure-html/unnamed-chunk-89-1.png" class="img-fluid quarto-figure quarto-figure-center figure-img" style="width:70.0%"></p>
+<p><img src="index_files/figure-html/unnamed-chunk-90-1.png" class="img-fluid quarto-figure quarto-figure-center figure-img" style="width:70.0%"></p>
 </figure>
 </div>
 </div>
@@ -3524,19 +3587,19 @@ window.Quarto = {
 <div class="cell" data-layout-align="center">
 <details class="code-fold">
 <summary>Ver código</summary>
-<div class="sourceCode cell-code" id="cb140"><pre class="sourceCode r code-with-copy"><code class="sourceCode r"><span id="cb140-1"><a href="#cb140-1" aria-hidden="true" tabindex="-1"></a>df_2 <span class="ot">&lt;-</span> <span class="fu">data.frame</span>(<span class="at">x =</span> x, <span class="at">Fx =</span> Fx)</span>
-<span id="cb140-2"><a href="#cb140-2" aria-hidden="true" tabindex="-1"></a></span>
-<span id="cb140-3"><a href="#cb140-3" aria-hidden="true" tabindex="-1"></a><span class="fu">ggplot</span>(df_2, <span class="fu">aes</span>(<span class="at">x =</span> x, <span class="at">y =</span> Fx)) <span class="sc">+</span></span>
-<span id="cb140-4"><a href="#cb140-4" aria-hidden="true" tabindex="-1"></a>  <span class="fu">geom_step</span>(<span class="at">color =</span> <span class="st">"#5c61cc"</span>, <span class="at">size =</span> <span class="dv">1</span>) <span class="sc">+</span></span>
-<span id="cb140-5"><a href="#cb140-5" aria-hidden="true" tabindex="-1"></a>  <span class="fu">geom_point</span>(<span class="at">color =</span> <span class="st">"#49f5ec"</span>, <span class="at">size =</span> <span class="dv">2</span>) <span class="sc">+</span></span>
-<span id="cb140-6"><a href="#cb140-6" aria-hidden="true" tabindex="-1"></a>  <span class="fu">labs</span>(<span class="at">title =</span> <span class="st">"Función de distribución hipergeométrica"</span>,</span>
-<span id="cb140-7"><a href="#cb140-7" aria-hidden="true" tabindex="-1"></a>       <span class="at">x =</span> <span class="st">"x"</span>,</span>
-<span id="cb140-8"><a href="#cb140-8" aria-hidden="true" tabindex="-1"></a>       <span class="at">y =</span> <span class="st">"F(X)"</span>)</span></code><button title="Copiar al portapapeles" class="code-copy-button"><i class="bi"></i></button></pre></div>
+<div class="sourceCode cell-code" id="cb141"><pre class="sourceCode r code-with-copy"><code class="sourceCode r"><span id="cb141-1"><a href="#cb141-1" aria-hidden="true" tabindex="-1"></a>df_2 <span class="ot">&lt;-</span> <span class="fu">data.frame</span>(<span class="at">x =</span> x, <span class="at">Fx =</span> Fx)</span>
+<span id="cb141-2"><a href="#cb141-2" aria-hidden="true" tabindex="-1"></a></span>
+<span id="cb141-3"><a href="#cb141-3" aria-hidden="true" tabindex="-1"></a><span class="fu">ggplot</span>(df_2, <span class="fu">aes</span>(<span class="at">x =</span> x, <span class="at">y =</span> Fx)) <span class="sc">+</span></span>
+<span id="cb141-4"><a href="#cb141-4" aria-hidden="true" tabindex="-1"></a>  <span class="fu">geom_step</span>(<span class="at">color =</span> <span class="st">"#5c61cc"</span>, <span class="at">size =</span> <span class="dv">1</span>) <span class="sc">+</span></span>
+<span id="cb141-5"><a href="#cb141-5" aria-hidden="true" tabindex="-1"></a>  <span class="fu">geom_point</span>(<span class="at">color =</span> <span class="st">"#49f5ec"</span>, <span class="at">size =</span> <span class="dv">2</span>) <span class="sc">+</span></span>
+<span id="cb141-6"><a href="#cb141-6" aria-hidden="true" tabindex="-1"></a>  <span class="fu">labs</span>(<span class="at">title =</span> <span class="st">"Función de distribución hipergeométrica"</span>,</span>
+<span id="cb141-7"><a href="#cb141-7" aria-hidden="true" tabindex="-1"></a>       <span class="at">x =</span> <span class="st">"x"</span>,</span>
+<span id="cb141-8"><a href="#cb141-8" aria-hidden="true" tabindex="-1"></a>       <span class="at">y =</span> <span class="st">"F(X)"</span>)</span></code><button title="Copiar al portapapeles" class="code-copy-button"><i class="bi"></i></button></pre></div>
 </details>
 <div class="cell-output-display">
 <div class="quarto-figure quarto-figure-center">
 <figure class="figure">
-<p><img src="index_files/figure-html/unnamed-chunk-90-1.png" class="img-fluid quarto-figure quarto-figure-center figure-img" style="width:70.0%"></p>
+<p><img src="index_files/figure-html/unnamed-chunk-91-1.png" class="img-fluid quarto-figure quarto-figure-center figure-img" style="width:70.0%"></p>
 </figure>
 </div>
 </div>
@@ -3558,10 +3621,10 @@ window.Quarto = {
 <div class="cell" data-layout-align="center">
 <details class="code-fold">
 <summary>Ver código</summary>
-<div class="sourceCode cell-code" id="cb141"><pre class="sourceCode r code-with-copy"><code class="sourceCode r"><span id="cb141-1"><a href="#cb141-1" aria-hidden="true" tabindex="-1"></a><span class="co"># Cálculo de P(X &gt;= 1) usando el complemento: 1 - P(X = 0)</span></span>
-<span id="cb141-2"><a href="#cb141-2" aria-hidden="true" tabindex="-1"></a>prob_res <span class="ot">&lt;-</span> <span class="fu">round</span>(<span class="dv">1</span> <span class="sc">-</span> <span class="fu">dhyper</span>(<span class="dv">0</span>, <span class="at">m =</span> <span class="dv">3</span>, <span class="at">n =</span> <span class="dv">9</span>, <span class="at">k =</span> <span class="dv">5</span>), <span class="dv">4</span>)</span>
-<span id="cb141-3"><a href="#cb141-3" aria-hidden="true" tabindex="-1"></a></span>
-<span id="cb141-4"><a href="#cb141-4" aria-hidden="true" tabindex="-1"></a><span class="fu">cat</span>(<span class="st">"La probabilidad calculada es:"</span>, prob_res)</span></code><button title="Copiar al portapapeles" class="code-copy-button"><i class="bi"></i></button></pre></div>
+<div class="sourceCode cell-code" id="cb142"><pre class="sourceCode r code-with-copy"><code class="sourceCode r"><span id="cb142-1"><a href="#cb142-1" aria-hidden="true" tabindex="-1"></a><span class="co"># Cálculo de P(X &gt;= 1) usando el complemento: 1 - P(X = 0)</span></span>
+<span id="cb142-2"><a href="#cb142-2" aria-hidden="true" tabindex="-1"></a>prob_res <span class="ot">&lt;-</span> <span class="fu">round</span>(<span class="dv">1</span> <span class="sc">-</span> <span class="fu">dhyper</span>(<span class="dv">0</span>, <span class="at">m =</span> <span class="dv">3</span>, <span class="at">n =</span> <span class="dv">9</span>, <span class="at">k =</span> <span class="dv">5</span>), <span class="dv">4</span>)</span>
+<span id="cb142-3"><a href="#cb142-3" aria-hidden="true" tabindex="-1"></a></span>
+<span id="cb142-4"><a href="#cb142-4" aria-hidden="true" tabindex="-1"></a><span class="fu">cat</span>(<span class="st">"La probabilidad calculada es:"</span>, prob_res)</span></code><button title="Copiar al portapapeles" class="code-copy-button"><i class="bi"></i></button></pre></div>
 </details>
 <div class="cell-output cell-output-stdout">
 <pre><code>La probabilidad calculada es: 0.8409</code></pre>
@@ -3573,17 +3636,17 @@ window.Quarto = {
 <div class="cell" data-layout-align="center">
 <details class="code-fold">
 <summary>Ver código</summary>
-<div class="sourceCode cell-code" id="cb143"><pre class="sourceCode r code-with-copy"><code class="sourceCode r"><span id="cb143-1"><a href="#cb143-1" aria-hidden="true" tabindex="-1"></a>rango <span class="ot">=</span> <span class="dv">0</span><span class="sc">:</span>K</span>
-<span id="cb143-2"><a href="#cb143-2" aria-hidden="true" tabindex="-1"></a>df_3 <span class="ot">=</span> <span class="fu">data.frame</span>(<span class="at">x =</span> rango, <span class="at">y =</span> <span class="fu">dhyper</span>(rango, <span class="at">m =</span> K, <span class="at">n =</span> N <span class="sc">-</span> K, <span class="at">k =</span> n))</span>
-<span id="cb143-3"><a href="#cb143-3" aria-hidden="true" tabindex="-1"></a><span class="fu">ggplot</span>(df_3, <span class="fu">aes</span>(<span class="at">x =</span> x, <span class="at">y =</span> y, <span class="at">fill=</span><span class="fu">factor</span>(<span class="fu">ifelse</span>(x<span class="sc">&gt;=</span><span class="dv">1</span>,<span class="st">"Valor"</span>,<span class="st">"Resto"</span>)))) <span class="sc">+</span></span>
-<span id="cb143-4"><a href="#cb143-4" aria-hidden="true" tabindex="-1"></a><span class="fu">geom_bar</span>(<span class="at">stat =</span> <span class="st">"identity"</span>, <span class="at">width =</span> <span class="fl">0.4</span>) <span class="sc">+</span> <span class="fu">xlab</span>(<span class="st">"x"</span>) <span class="sc">+</span> <span class="fu">ylab</span>(<span class="st">"Cuantía"</span>) <span class="sc">+</span></span>
-<span id="cb143-5"><a href="#cb143-5" aria-hidden="true" tabindex="-1"></a><span class="fu">ggtitle</span>(<span class="st">"Distribución Hipergeométrica - Al menos 1 defectuoso"</span>) <span class="sc">+</span></span>
-<span id="cb143-6"><a href="#cb143-6" aria-hidden="true" tabindex="-1"></a><span class="fu">scale_fill_manual</span>(<span class="at">name =</span> <span class="st">""</span>, <span class="at">values=</span><span class="fu">c</span>(<span class="st">"#fab27a"</span>,<span class="st">"#5c61cc"</span>)) <span class="sc">+</span> <span class="fu">theme_bw</span>()</span></code><button title="Copiar al portapapeles" class="code-copy-button"><i class="bi"></i></button></pre></div>
+<div class="sourceCode cell-code" id="cb144"><pre class="sourceCode r code-with-copy"><code class="sourceCode r"><span id="cb144-1"><a href="#cb144-1" aria-hidden="true" tabindex="-1"></a>rango <span class="ot">=</span> <span class="dv">0</span><span class="sc">:</span>K</span>
+<span id="cb144-2"><a href="#cb144-2" aria-hidden="true" tabindex="-1"></a>df_3 <span class="ot">=</span> <span class="fu">data.frame</span>(<span class="at">x =</span> rango, <span class="at">y =</span> <span class="fu">dhyper</span>(rango, <span class="at">m =</span> K, <span class="at">n =</span> N <span class="sc">-</span> K, <span class="at">k =</span> n))</span>
+<span id="cb144-3"><a href="#cb144-3" aria-hidden="true" tabindex="-1"></a><span class="fu">ggplot</span>(df_3, <span class="fu">aes</span>(<span class="at">x =</span> x, <span class="at">y =</span> y, <span class="at">fill=</span><span class="fu">factor</span>(<span class="fu">ifelse</span>(x<span class="sc">&gt;=</span><span class="dv">1</span>,<span class="st">"Valor"</span>,<span class="st">"Resto"</span>)))) <span class="sc">+</span></span>
+<span id="cb144-4"><a href="#cb144-4" aria-hidden="true" tabindex="-1"></a><span class="fu">geom_bar</span>(<span class="at">stat =</span> <span class="st">"identity"</span>, <span class="at">width =</span> <span class="fl">0.4</span>) <span class="sc">+</span> <span class="fu">xlab</span>(<span class="st">"x"</span>) <span class="sc">+</span> <span class="fu">ylab</span>(<span class="st">"Cuantía"</span>) <span class="sc">+</span></span>
+<span id="cb144-5"><a href="#cb144-5" aria-hidden="true" tabindex="-1"></a><span class="fu">ggtitle</span>(<span class="st">"Distribución Hipergeométrica - Al menos 1 defectuoso"</span>) <span class="sc">+</span></span>
+<span id="cb144-6"><a href="#cb144-6" aria-hidden="true" tabindex="-1"></a><span class="fu">scale_fill_manual</span>(<span class="at">name =</span> <span class="st">""</span>, <span class="at">values=</span><span class="fu">c</span>(<span class="st">"#fab27a"</span>,<span class="st">"#5c61cc"</span>)) <span class="sc">+</span> <span class="fu">theme_bw</span>()</span></code><button title="Copiar al portapapeles" class="code-copy-button"><i class="bi"></i></button></pre></div>
 </details>
 <div class="cell-output-display">
 <div class="quarto-figure quarto-figure-center">
 <figure class="figure">
-<p><img src="index_files/figure-html/unnamed-chunk-92-1.png" class="img-fluid quarto-figure quarto-figure-center figure-img" style="width:70.0%"></p>
+<p><img src="index_files/figure-html/unnamed-chunk-93-1.png" class="img-fluid quarto-figure quarto-figure-center figure-img" style="width:70.0%"></p>
 </figure>
 </div>
 </div>
